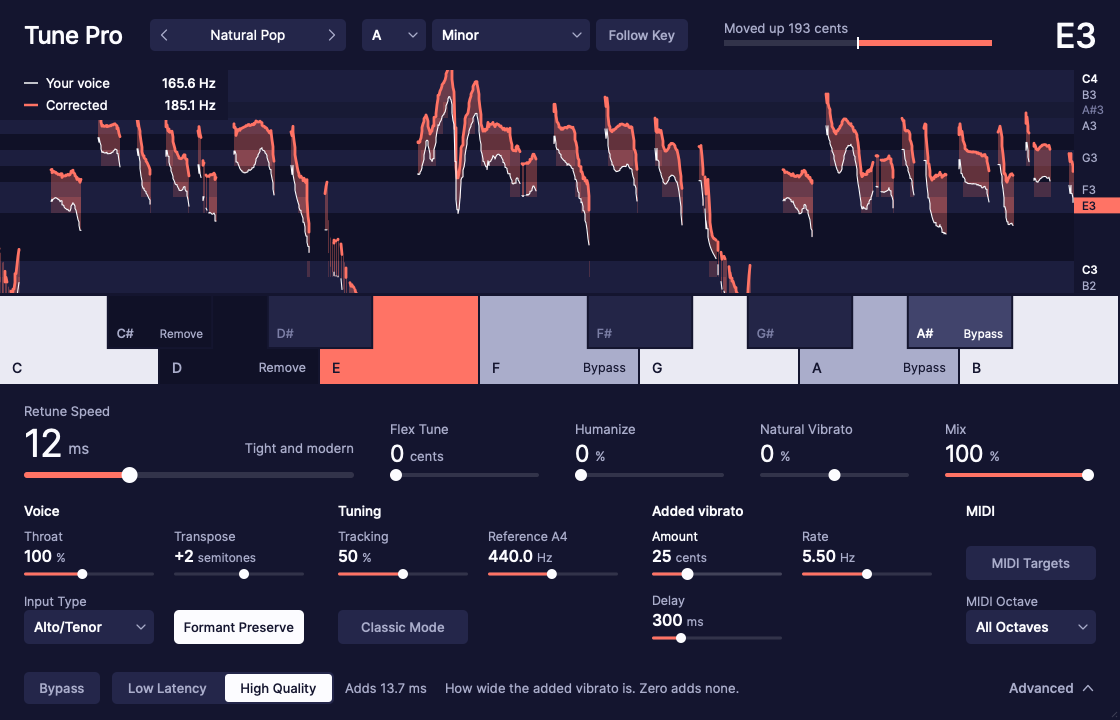
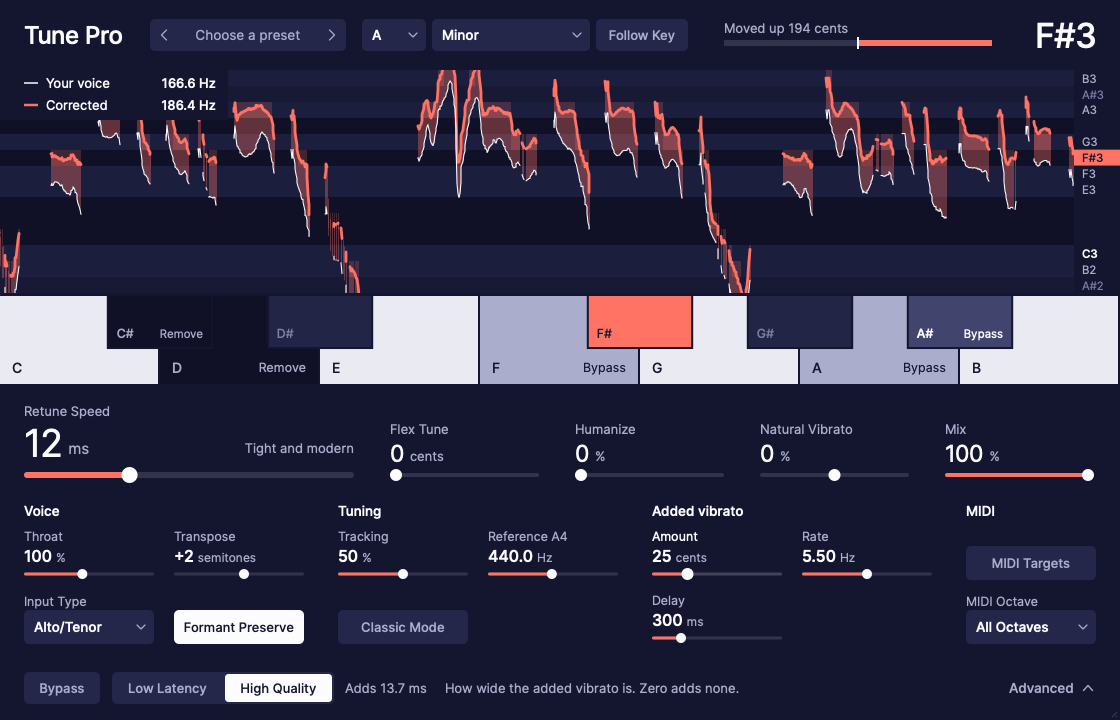
1.8.2: the window waits 0.25 s without audio before it clears the reading (0.1 s cleared it in RenderWindow's catch-up frames); window pictures rendered again; real vocal check numbers in the changelog

diff --git a/tune-pro/src/TuneEditor.h b/tune-pro/src/TuneEditor.h
@@ -107,7 +107,7 @@ private:
     float advancedAmount = 0.0f;
     double lastFrameTime = 0.0, frameBudget = 0.0, sinceDrawn = 0.0, stillFor = 0.0;
     // No audio for this long and the readings are old: the host has stopped calling the plug-in (Logic does on a stopped track).
-    static constexpr double staleAfterSeconds = 0.1;
+    static constexpr double staleAfterSeconds = 0.25;
     long long historySeen = -1;
     double quietFor = 0.0;
     int slowCountdown = 0;

diff --git a/tune-pro/CHANGELOG.md b/tune-pro/CHANGELOG.md
@@ -2,6 +2,8 @@
 
 ## 1.8.2, 2026-11-13
 
+Real vocal check, round 1's working set (11 takes, song key, the same check file and variants as 1.8.1's final run `1.8.1-v181`, run `1.8.2-v182`, `_vox/rode/work/tune-pro/p6/`): every pooled line is 1.8.1's to the digit, and of 1210 pass flags none that passed fails (`p6/passdiff.py`); only CPU moved (mean 3.41 -> 3.05%, worst block 12 -> 10%). Robot Flat on the same takes (`p6/robot-compare.txt`): held notes 90th percentile 15.6 -> 4.1 cents, slides turned round 10.52 -> 3.14% (rap 7.49 -> 4.64%, limit 5), wrong-semitone frames 246 -> 6, notes right 574 -> 659; it now reads as Hard Tune does (4.1 c, worst take 14 25.9 against 24.6). Near clicks, which have no limit, 1 -> 4; far clicks 1 -> 0. The working set ran on the 1.8.2 build before the window's 0.25 s (it had 0.1 s); the audio is the same.
+
 Phase 2: the faults the bug hunt kept (25: 1 high, 6 medium, 18 low), the HostStress parameter text fails, the key file reader items, and AuBench's worst block. Every fix has a test in `PluginTest phase2`, written and run on 1.8.1 first (48 lines failed there, each for the reason the hunt gave; `~/Bug Fixing/smooth-plugins/after/tune-pro/phase2-before.txt` and `-after.txt`). Parameters, ranges, defaults, latency and AU codes are unchanged.
 
 **Robot Flat is flat** (the high one, `PitchCorrector`). Natural Vibrato worked on the voice as sung, so where the correction had already taken the vibrato out, -100 put it back upside down. It now works on the vibrato left after correction, as the README says, as Tune 1.2.1 does. A +/-40 cent vibrato through the Robot Flat preset keeps 92.0% -> 5.8% (Low Latency) and 93.5% -> 1.1% (High Quality), limit 10 (Hard Tune's); Natural Vibrato -100 at the default 3 ms 89.8% -> 6.8% and 90.7% -> 3.1%. This changes how Robot Flat and Flat Then Sung Vibrato sound, which is what they claim. Luke left this call to the lead on 2026-11-11.
@@ -23,7 +25,7 @@ The parameter holds Natural Vibrato's 0 as 1.5e-6 % (its 0.1 step does not land 
 - Reset All Controllers let go of keys still down: now only the pedal (target lost -> 0.15 cents).
 - A note on Bypass, and a voice with no target, still got Natural Vibrato and the added vibrato: null 1.4 to 2.7 dB -> -168 to -267 dB.
 - Presets set Vibrato Amount but not Rate or Delay: they set all three now (the defaults, 5.5 Hz and 300 ms). Flat Then Sung Vibrato after 2 Hz / 0 ms against after 9 Hz / 1500 ms: 0.55 -> 0 largest sample difference.
-- Window: the hint line describes a key's new mode after a click; bypassed with Transpose the voice as sung stays on screen (centred on A3, not A4); Advanced glides from closed instead of being 98% open before the first frame; the legend no longer says Following C Chromatic with no key from the file (No key from the key file yet); with Transpose the target note, lit key and header name the note that comes out (A3 -> C4 at +3); a stretch played bypassed stays drawn bypassed after a full redraw (765 -> 0 coral pixels); 2 s after audio stops no key stays lit and the header says No pitch; a voice left alone off the note says Left as sung, 30 cents sharp, not On pitch; a state loaded with the window open sizes the window.
+- Window: the hint line describes a key's new mode after a click; bypassed with Transpose the voice as sung stays on screen (centred on A3, not A4); Advanced glides from closed instead of being 98% open before the first frame; the legend no longer says Following C Chromatic with no key from the file (No key from the key file yet); with Transpose the target note, lit key and header name the note that comes out (A3 -> C4 at +3); a stretch played bypassed stays drawn bypassed after a full redraw (765 -> 0 coral pixels); once no audio has come for 0.25 s no key stays lit and the header says No pitch (the window test: 2 s after); a voice left alone off the note says Left as sung, 30 cents sharp, not On pitch; a state loaded with the window open sizes the window.
 - Not real: a damaged (not a number) value in a state already goes back to its default on the JUCE this builds with (a parameter whose entry is added back is set from it, valueTreeChildAdded). Kept as a guard line.
 - Not fixed: at 96 kHz Low Latency's low-note age thresholds are in 48 kHz periods (Low Male at 196 Hz sits 0.16 ms earlier than at 48 kHz). Reading them as 48 kHz periods moves it to 0.13 ms late and changes the pinned 96 kHz null case, so it is not the only difference; given as a note, in the README.
 
